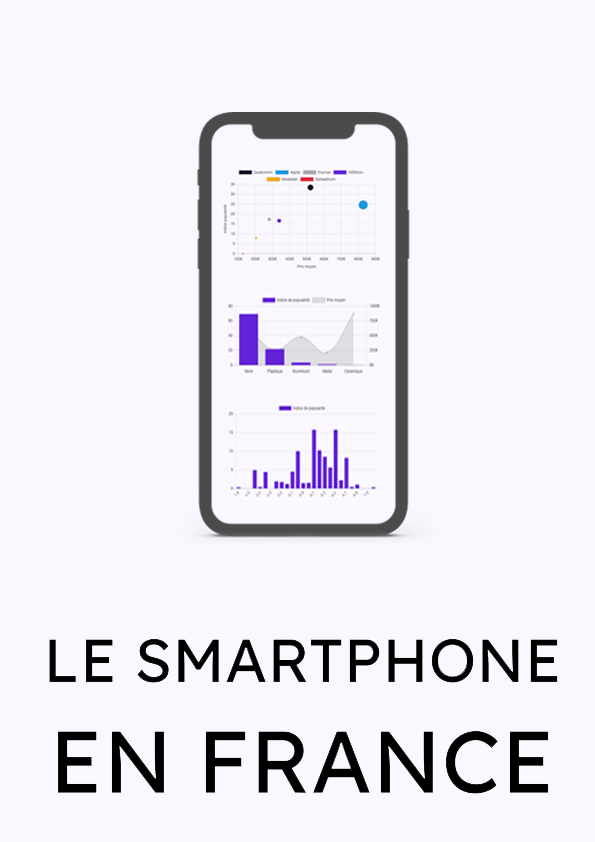
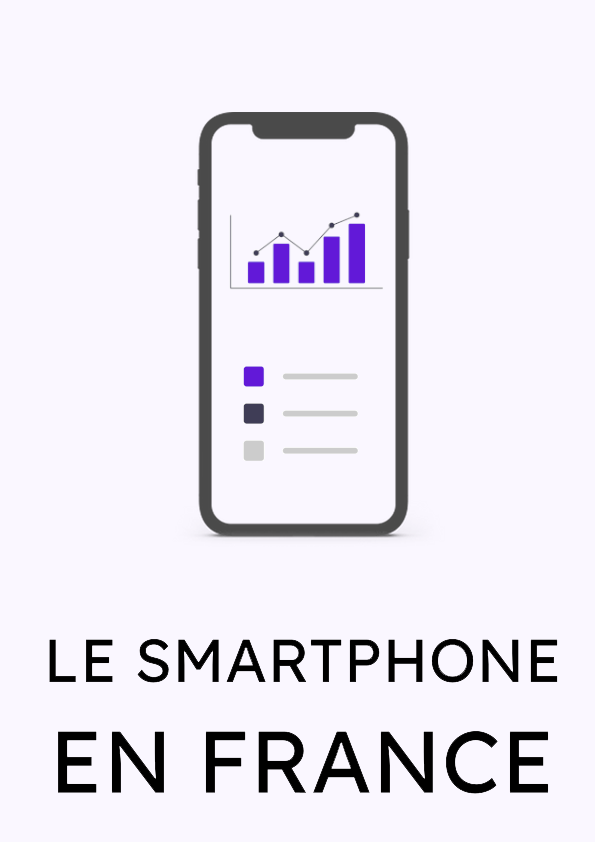
illustration etudes + nv graph covid

Changed region(s): [[0.3933, 0.2162, 0.6353, 0.5867], [0.3933, 0.1853, 0.605, 0.2162], [0.363, 0.247, 0.3933, 0.2779]]

diff --git a/covid.html b/covid.html
@@ -36,7 +36,7 @@
 
             <div class="container neumorphSection" data-aos="flip-down">
                 <div class="container text-center">
-                    <h4>Nombre de personnes vaccinées contre la Covid-19 en France.</h4>
+                    <h4>Nombre de personnes vaccinées contre la Covid-19 en France</h4>
                     <div class="col-sm" style="padding: 20px 0px;">
                         <canvas id="chart6_general_vacc" style="min-height: 300px;"></canvas>
                     </div>
@@ -46,7 +46,7 @@
                 <div class="col-md-6">
                     <div class="container neumorphSection" data-aos="flip-down">
                         <div class="container text-center">
-                            <h4>Part de la population vaccinée <br>en France.</h4>
+                            <h4>Part de la population vaccinée <br>en France</h4>
                             <div class="col-sm" style="padding: 20px 0px;">
                                 <canvas id="chart7_partvax" style="min-height: 300px;"></canvas>
                             </div>
@@ -56,19 +56,28 @@
                 <div class="col-md-6">
                     <div class="container neumorphSection" data-aos="flip-down" data-aos-delay="100">
                         <div class="container text-center">
-                            <h4>Les régions françaises les <br>plus/moins vaccinées.</h4>
+                            <h4>Part du personnel de santé vacciné en France</h4>
                             <div class="col-sm" style="padding: 20px 0px;">
-                                <canvas id="chart9_regionVax" style="min-height: 300px;"></canvas>
+                                <canvas id="chart8_persoSante" style="min-height: 300px;"></canvas>
                             </div>
                         </div>
                     </div>
                 </div>
-                <div class="container neumorphSection" data-aos="flip-down">
-                    <div class="container text-center">
-                        <h4>La France en comparaison des autres pays.</h4>
-                        <div class="col-sm" style="padding: 20px 0px;">
-                            <canvas id="chart10_VaxCompet" style="min-height: 400px;"></canvas>
-                        </div>
+            </div>
+            <div class="container neumorphSection" data-aos="flip-down">
+                <div class="container text-center">
+                    <h4>Les régions françaises les <br>plus/moins vaccinées</h4>
+                    <div class="col-sm" style="padding: 20px 0px;">
+                        <canvas id="chart9_regionVax" style="min-height: 300px;"></canvas>
+                    </div>
+                </div>
+            </div>
+
+            <div class="container neumorphSection" data-aos="flip-down">
+                <div class="container text-center">
+                    <h4>La France en comparaison des autres pays.</h4>
+                    <div class="col-sm" style="padding: 20px 0px;">
+                        <canvas id="chart10_VaxCompet" style="min-height: 400px;"></canvas>
                     </div>
                 </div>
             </div>
@@ -127,10 +136,7 @@
             Chart.pluginService.register({
                 beforeDraw: function (chart) {
                     if (chart.config.options.elements.center) {
-                        // Get ctx from string
                         var ctx = chart.chart.ctx;
-
-                        // Get options from the center object in options
                         var centerConfig = chart.config.options.elements.center;
                         var fontStyle = centerConfig.fontStyle || 'Arial';
                         var txt = centerConfig.text;
@@ -138,19 +144,12 @@
                         var maxFontSize = centerConfig.maxFontSize || 75;
                         var sidePadding = centerConfig.sidePadding || 20;
                         var sidePaddingCalculated = (sidePadding / 100) * (chart.innerRadius * 2)
-                        // Start with a base font of 30px
                         ctx.font = "30px " + fontStyle;
-
-                        // Get the width of the string and also the width of the element minus 10 to give it 5px side padding
                         var stringWidth = ctx.measureText(txt).width;
                         var elementWidth = (chart.innerRadius * 2) - sidePaddingCalculated;
-
-                        // Find out how much the font can grow in width.
                         var widthRatio = elementWidth / stringWidth;
                         var newFontSize = Math.floor(30 * widthRatio);
                         var elementHeight = (chart.innerRadius * 2);
-
-                        // Pick a new font size so it will not be larger than the height of label.
                         var fontSizeToUse = Math.min(newFontSize, elementHeight, maxFontSize);
                         var minFontSize = centerConfig.minFontSize;
                         var lineHeight = centerConfig.lineHeight || 25;
@@ -164,8 +163,6 @@
                             fontSizeToUse = minFontSize;
                             wrapText = true;
                         }
-
-                        // Set font settings to draw it correctly.
                         ctx.textAlign = 'center';
                         ctx.textBaseline = 'middle';
                         var centerX = ((chart.chartArea.left + chart.chartArea.right) / 2);
@@ -177,12 +174,9 @@
                             ctx.fillText(txt, centerX, centerY);
                             return;
                         }
-
                         var words = txt.split(' ');
                         var line = '';
                         var lines = [];
-
-                        // Break words up into multiple lines if necessary
                         for (var n = 0; n < words.length; n++) {
                             var testLine = line + words[n] + ' ';
                             var metrics = ctx.measureText(testLine);
@@ -194,15 +188,12 @@
                                 line = testLine;
                             }
                         }
-
-                        // Move the center up depending on line height and number of lines
                         centerY -= (lines.length / 2) * lineHeight;
 
                         for (var n = 0; n < lines.length; n++) {
                             ctx.fillText(lines[n], centerX, centerY);
                             centerY += lineHeight;
                         }
-                        //Draw text in center
                         ctx.fillText(line, centerX, centerY);
                     }
                 }
@@ -254,7 +245,7 @@
                                 yAxes: [{
                                     stacked: true,
                                     ticks: {
-                                        stepSize: 500000,
+                                        stepSize: 1000000,
                                         userCallback: function (value, index, values) {
                                             value = value.toString();
                                             value = value.split(/(?=(?:...)*$)/);
@@ -337,6 +328,70 @@
                 }
             });
 
+
+            Papa.parse("https://www.data.gouv.fr/fr/datasets/r/e720df1a-78db-4c46-ab5b-2a417c2ff06c", {
+                download: true,
+                complete: function (results, file) {
+                    let newJsonObj = results.data;
+                    newJsonObj.shift();
+                    newJsonObj.pop();
+                    labelsTV = newJsonObj.map(e => e[1])
+                    dataTV = newJsonObj.map(e => e[2])
+                    //graph vacc perso santé
+                    var ctxpart = document.querySelector('#chart8_persoSante').getContext('2d');
+                    var chart8_persoSante = new Chart(ctxpart, {
+                        type: 'doughnut',
+                        data: {
+                            labels: ["Population non-vaccinée", "Population vaccinée"],
+                            datasets: [{
+                                label: "Indice de popularité",
+                                backgroundColor: ["#bebbc4", "#6219D8"],
+                                data: [2223000, dataTV.slice(-1).pop()]
+                            }]
+                        },
+                        options: {
+                            responsive: true,
+                            legend: {
+                                display: false
+                            },
+                            title: {
+                                display: true,
+                                position: "bottom",
+                                fontFamily: "Lexend Deca",
+                                padding: 20,
+                                fontSize: 14,
+                                text: "Source : data.gouv.fr"
+                            },
+                            tooltips: {
+                                mode: 'index',
+                                intersect: false
+                            },
+                            maintainAspectRatio: false,
+                            plugins: {
+                                deferred: {
+                                    xOffset: 150,
+                                    yOffset: '50%',
+                                    delay: 500
+                                }
+                            },
+                            elements: {
+                                center: {
+                                    text: String(Math.round(dataTV.slice(-1).pop() / 2223000 *
+                                            1000) /
+                                        10) + "%",
+                                    color: '#6219D8',
+                                    fontStyle: 'Lexend Deca',
+                                    sidePadding: 40, //  
+                                    minFontSize: 16, // 
+                                    lineHeight: 25 // 
+                                }
+                            }
+                        }
+                    });
+                }
+            });
+
+
             let codeRegions = {
                 '01': 'Guadeloupe',
                 '02': 'Martinique',
@@ -368,7 +423,7 @@
                     //graph vacc total
                     var ctxRegions = document.querySelector('#chart9_regionVax').getContext('2d');
                     var chart = new Chart(ctxRegions, {
-                        type: 'horizontalBar',
+                        type: 'bar',
                         data: {
                             labels: newJsonObj.map(e => codeRegions[e[0]]),
                             datasets: [{
@@ -394,20 +449,20 @@
                             },
                             scales: {
                                 yAxes: [{
-                                    gridLines: {
-                                        display: false
-                                    }
-                                }],
-                                xAxes: [{
                                     stacked: true,
-                                    step: 5000,
                                     ticks: {
+                                        stepSize: 250000,
                                         userCallback: function (value, index, values) {
                                             value = value.toString();
                                             value = value.split(/(?=(?:...)*$)/);
                                             value = value.join(',');
                                             return value;
                                         }
+                                    }
+                                }],
+                                xAxes: [{
+                                    gridLines: {
+                                        display: false
                                     }
                                 }]
                             },
@@ -500,7 +555,7 @@
                                 xAxes: [{
                                     scaleLabel: {
                                         display: true,
-                                        labelString: '% total de la population vaccinnée'
+                                        labelString: 'Doses de vaccin administrées pour 100 personnes'
                                     }
                                 }]
                             },

diff --git a/index.html b/index.html
@@ -112,14 +112,14 @@
 
                 <div class="container" style="height: auto;">
                     <div class="row">
-                        <div class="col-lg-4 col-s-6">
+                        <div class="col-lg-4 col-md-6">
                             <div style="padding: 5px 10px;" data-aos="fade-up" data-aos-delay="50">
                                 <img src="img/dessin_etude_smartphones.png" class="panneauEtude"
                                     onclick="window.open('smartphone.html','_self')">
                                 <div class="soustitrePanneau">Mars 2021</div>
                             </div>
                         </div>
-                        <div class="col-lg-4 col-s-6" style="padding: 5px 10px;" data-aos="fade-up"
+                        <div class="col-lg-4 col-md-6" style="padding: 5px 10px;" data-aos="fade-up"
                             data-aos-delay="200">
                             <div>
                                 <img src="img/dessin_dashboard_vaccin_covid.png" class="panneauEtude"
@@ -127,7 +127,7 @@
                                 <div class="soustitrePanneau">Updates quotidiennes</div>
                             </div>
                         </div>
-                        <div class="col-lg-4 col-s-6" style="padding: 5px 10px;" data-aos="fade-up"
+                        <div class="col-lg-4 col-md-6" style="padding: 5px 10px;" data-aos="fade-up"
                             data-aos-delay="350">
                             <div>
                                 <img src="img/dessin_coming_soon.png" class="panneauEtude">
@@ -193,9 +193,10 @@
                                                 background: #FAF7FF;
                                                 box-shadow:  5px 5px 10px #ebe8f0,
                                                              -5px -5px 10px #ffffff;">
-                                                    <input class="input" style=" border-width: 0px;" type="text"
-                                                        id="EMAIL" name="EMAIL" autocomplete="off" placeholder="bruce@wayne.com"
-                                                        data-required="true" required />
+                                                    <input class="input"
+                                                        style="border-width: 0px; font-size: 20px; color: #6219D8; font-family: Lexend Deca;"
+                                                        type="text" id="EMAIL" name="EMAIL" autocomplete="off"
+                                                        placeholder="bruce@wayne.com" data-required="true" required />
                                                 </div>
                                             </div>
                                             <label class="entry__error entry__error--primary"
@@ -213,7 +214,8 @@
                                                         <input type="checkbox" class="input_replaced" value="1"
                                                             id="OPT_IN" name="OPT_IN" />
                                                         <span class="checkbox checkbox_tick_positive"></span><span
-                                                            style="font-size:14px; text-align:left; font-family:&quot;Futura&quot;, sans-serif; color:#3C4858; background-color:transparent;">
+                                                            style="font-size:14px; text-align:left;     font-family: RalewayMedium;
+                                                            color:#3C4858; background-color:transparent;">
                                                             <p>J'accepte de recevoir vos e-mails et confirme avoir pris
                                                                 connaissance de votre politique de confidentialité et
                                                                 mentions légales.</p>
@@ -228,8 +230,10 @@
                                 </div>
                                 <div style="padding: 8px 0;">
                                     <div class="sib-form-block" style="text-align: center">
-                                        <button class="sib-form-block__button sib-form-block__button-with-loader" style="font-size:16px; text-align:center; font-weight:700; border-radius: 12px;
-                                            background: #FAF7FF;box-shadow:  7px 7px 14px #dfdce3, -7px -7px 14px #ffffff; background-color: #6219D8; color: #FAF7FF;" form="sib-form" type="submit">
+                                        <button class="sib-form-block__button sib-form-block__button-with-loader"
+                                            style="font-size:16px; text-align:center; border-radius: 12px;
+                                            background: #FAF7FF;box-shadow:  7px 7px 14px #dfdce3, -7px -7px 14px #ffffff; background-color: #6219D8; color: #FAF7FF; font-family: Lexend Deca;" form="sib-form"
+                                            type="submit">
                                             <svg class="icon clickable__icon progress-indicator__icon sib-hide-loader-icon"
                                                 viewBox="0 0 512 512">
                                                 <path
